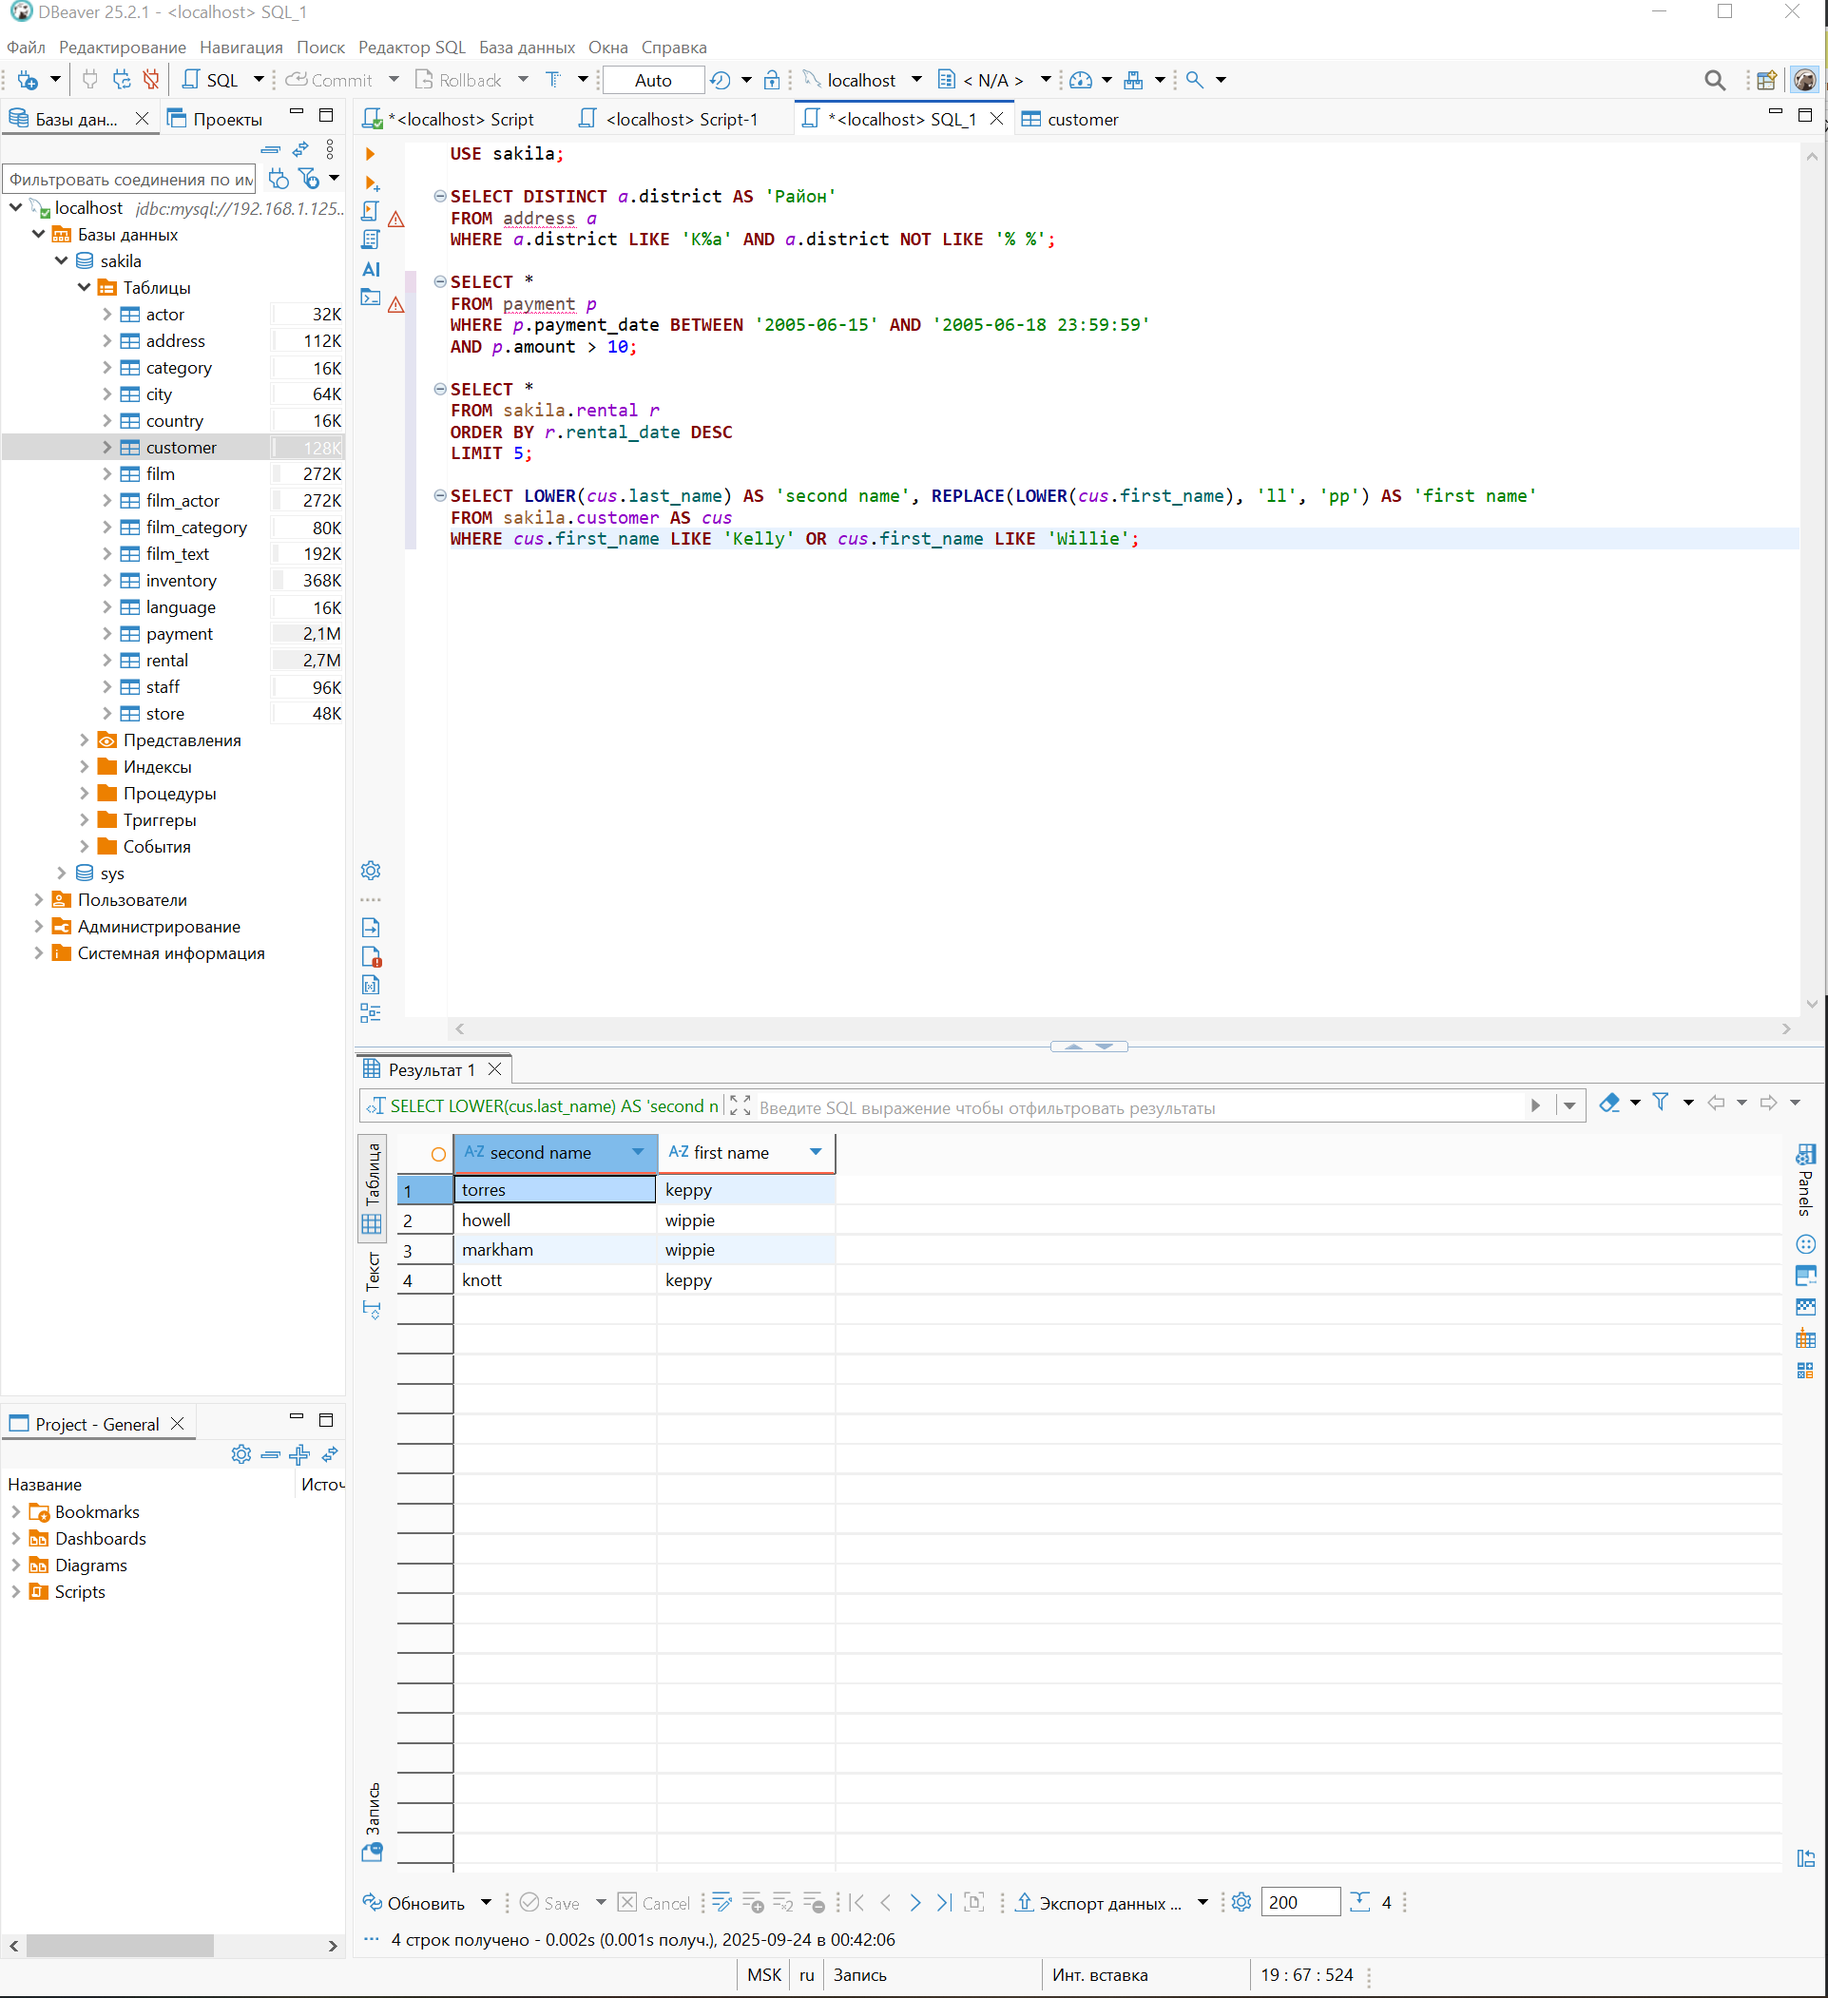
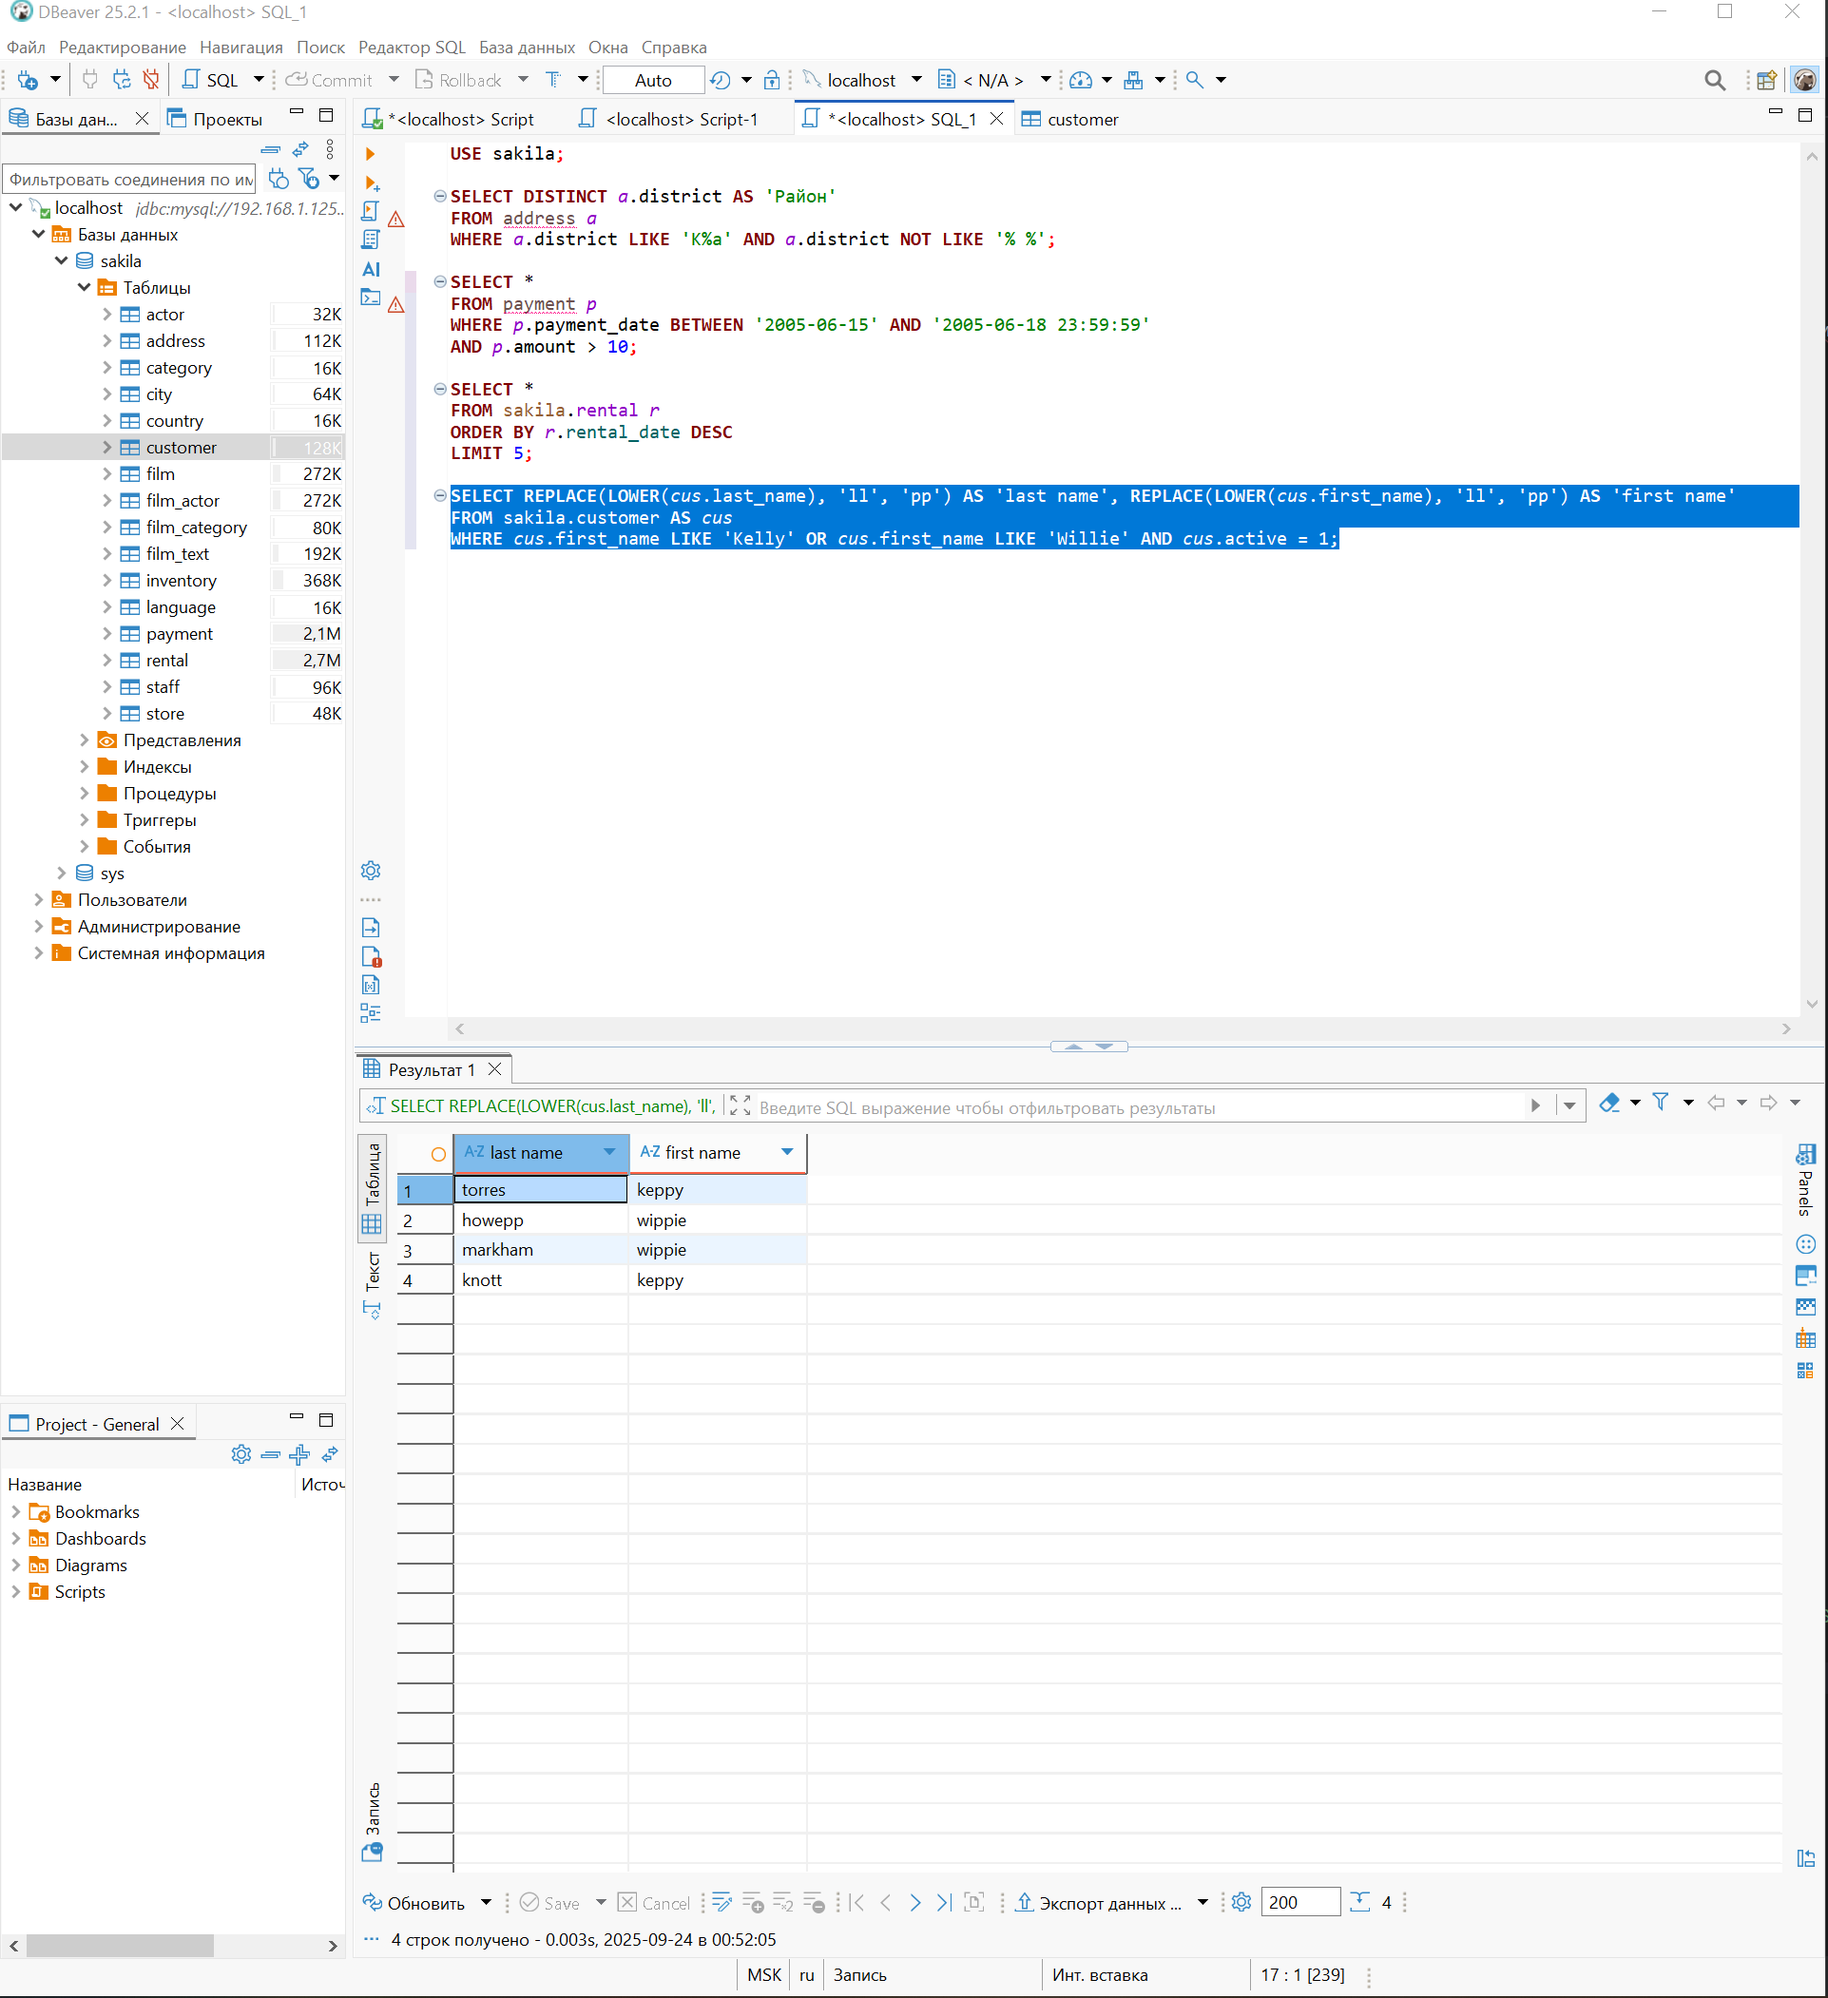
some fixes

diff --git a/README.md b/README.md
@@ -57,8 +57,8 @@ LIMIT 5;
 ### Решение 4
 
 ```
-SELECT LOWER(cus.last_name) AS 'second name', REPLACE(LOWER(cus.first_name), 'll', 'pp') AS 'first name'
+SELECT REPLACE(LOWER(cus.last_name), 'll', 'pp') AS 'last name', REPLACE(LOWER(cus.first_name), 'll', 'pp') AS 'first name'
 FROM sakila.customer AS cus
-WHERE cus.first_name LIKE 'Kelly' OR cus.first_name LIKE 'Willie';
+WHERE cus.first_name LIKE 'Kelly' OR cus.first_name LIKE 'Willie' AND cus.active = 1;
 ```
 ![Screenshot_4](https://github.com/MrVanG0gh/Netology_12-03_SQL_p1/blob/main/Screenshots/Screenshot_4.png)
